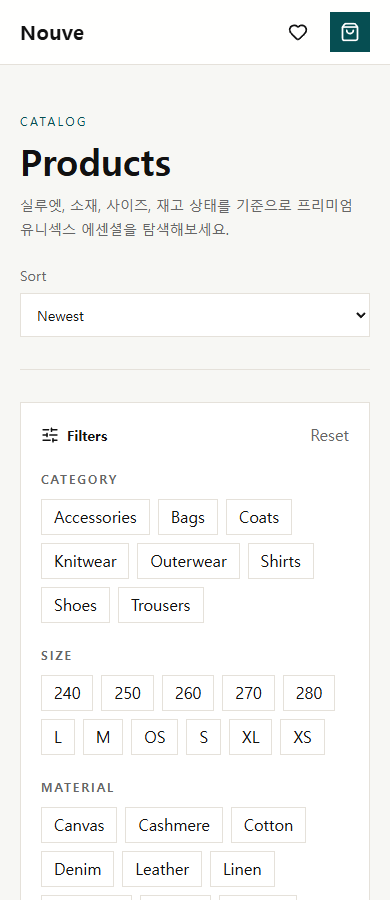
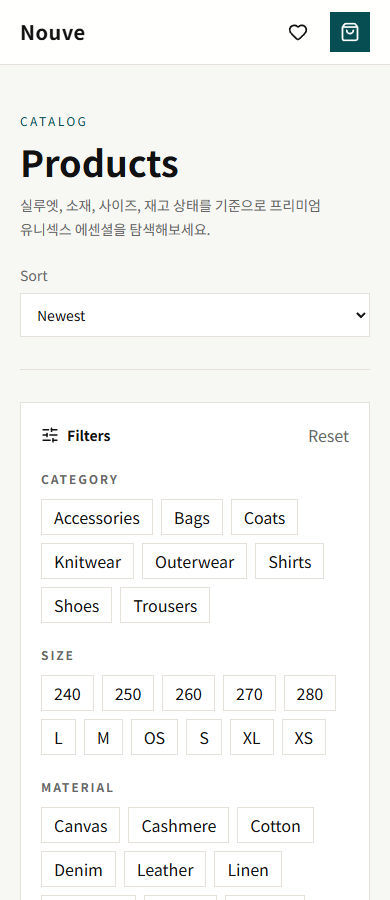
style: refine Korean display typography

diff --git a/src/features/products/pages/HomePage.tsx b/src/features/products/pages/HomePage.tsx
@@ -25,7 +25,7 @@ export function HomePage() {
           <p className="text-xs uppercase tracking-[0.24em] text-[var(--color-primary)]">
             Premium unisex edit
           </p>
-          <h1 className="mt-5 max-w-xl break-keep text-5xl font-semibold leading-tight md:text-6xl">
+          <h1 className="heading-ko mt-5 max-w-xl text-[2.75rem] md:text-[4rem]">
             오래 입을 취향을 위한 조용한 옷들.
           </h1>
           <p className="mt-5 max-w-lg break-keep text-base leading-7 text-[var(--color-text-secondary)]">
@@ -47,7 +47,7 @@ export function HomePage() {
             <p className="text-xs uppercase tracking-[0.2em] text-[var(--color-primary)]">
               New arrivals
             </p>
-            <h2 className="mt-3 break-keep text-3xl font-semibold">새롭게 고른 셀렉션</h2>
+            <h2 className="heading-ko mt-3 text-[1.85rem] md:text-3xl">새롭게 고른 셀렉션</h2>
           </div>
           <Link className="text-sm text-[var(--color-primary)]" to="/products?sort=newest">
             View all

diff --git a/src/styles/globals.css b/src/styles/globals.css
@@ -11,8 +11,9 @@
   --color-border: #e5e1da;
   --color-sale: #d94a4a;
   font-family:
-    Inter, ui-sans-serif, system-ui, -apple-system, BlinkMacSystemFont, "Segoe UI",
-    sans-serif;
+    Inter, "Pretendard Variable", Pretendard, "Noto Sans KR", "Apple SD Gothic Neo",
+    "Malgun Gothic", ui-sans-serif, system-ui, -apple-system, BlinkMacSystemFont,
+    "Segoe UI", sans-serif;
   color: var(--color-text-primary);
   background: var(--color-page);
 }
@@ -28,4 +29,15 @@ input,
 select,
 textarea {
   font: inherit;
+}
+
+.heading-ko {
+  font-family:
+    "Pretendard Variable", Pretendard, "Noto Sans KR", "Apple SD Gothic Neo",
+    "Malgun Gothic", Inter, ui-sans-serif, system-ui, sans-serif;
+  font-weight: 500;
+  letter-spacing: 0;
+  line-height: 1.18;
+  text-wrap: balance;
+  word-break: keep-all;
 }

diff --git a/src/features/products/components/CollectionSection.tsx b/src/features/products/components/CollectionSection.tsx
@@ -13,7 +13,7 @@ export function CollectionSection({ collections }: CollectionSectionProps) {
           <p className="text-xs uppercase tracking-[0.2em] text-[var(--color-primary)]">
             Curated edits
           </p>
-          <h2 className="mt-3 break-keep text-3xl font-semibold">계절을 위한 컬렉션</h2>
+          <h2 className="heading-ko mt-3 text-[1.85rem] md:text-3xl">계절을 위한 컬렉션</h2>
         </div>
         <Link className="hidden text-sm text-[var(--color-primary)] md:inline" to="/products">
           Shop all
